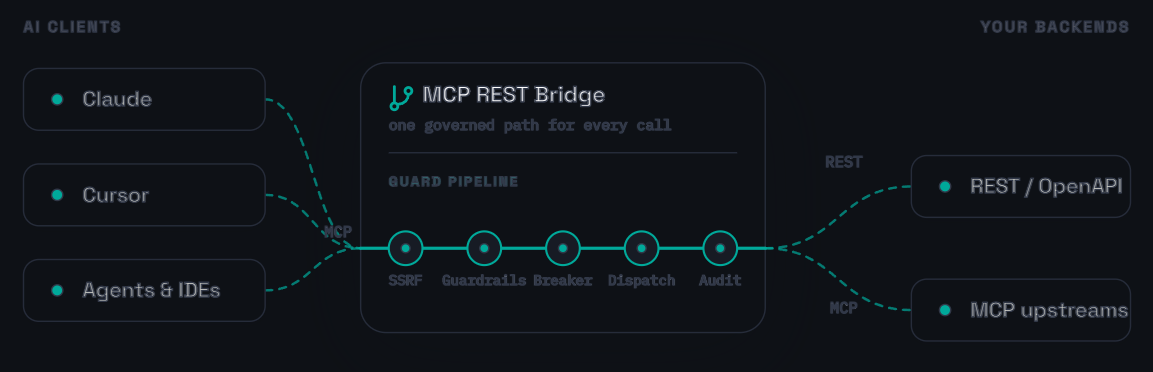
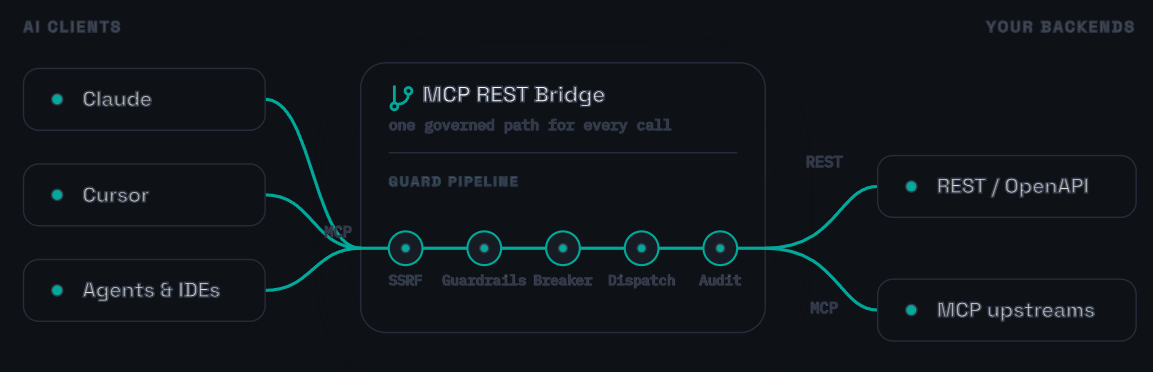
fix(docs): solid teal connectors, wider backend boxes, crisper dark text
- connectors now match the trunk's colour + weight (solid teal), so client ->
  bridge -> backend reads as one continuous line instead of dashed
- widen the "Your backends" chips so REST/OpenAPI + MCP upstreams get real padding
- promote the SVG to its own layer (translateZ) + font-smoothing/text-rendering
  hints so dark-mode labels use grayscale AA instead of ClearType subpixel AA,
  which fringed light-on-dark glyphs on Windows; chip labels bumped to 600 weight
- refresh the README diagram PNGs (light + dark)

diff --git a/docs/.vitepress/theme/components/HowItWorks.vue b/docs/.vitepress/theme/components/HowItWorks.vue
@@ -1,10 +1,9 @@
 <script setup lang="ts">
 // "How it works" — the request journey: tool calls come in over MCP, cross the
-// ink bridge along a single teal artery through the guard pipeline, and fan out
-// to REST + MCP backends. Connectors leave chips horizontal and meet the straight
-// trunk horizontal (tangent-continuous) so nothing kinks. Several teal "signals"
-// flow at once, from different clients to different backends, passing *behind* the
-// gate stations — the page's signature motif.
+// ink bridge along one continuous teal artery through the guard pipeline, and fan
+// out to REST + MCP backends. Connectors are the same teal + weight as the trunk,
+// so client -> bridge -> backend reads as a single line. Several signals flow at
+// once, from different clients to different backends, passing BEHIND the gates.
 </script>
 
 <template>
@@ -20,17 +19,17 @@
 
         <!-- eyebrows -->
         <text class="hiw-eyebrow" x="16" y="22">AI CLIENTS</text>
-        <text class="hiw-eyebrow" x="804" y="22" text-anchor="end">YOUR BACKENDS</text>
+        <text class="hiw-eyebrow" x="808" y="22" text-anchor="end">YOUR BACKENDS</text>
 
         <!-- 1 · bridge card (ink; drawn first so the trunk sits on top of it) -->
         <rect class="hiw-bridge" x="256" y="44" width="288" height="192" rx="18" />
 
-        <!-- 2 · connectors: leave chips horizontal, meet the trunk horizontal -->
+        <!-- 2 · connectors — same teal + weight as the trunk, so they read as one line -->
         <path class="hiw-wire" d="M188 70 C222 70 222 176 256 176" fill="none" />
         <path class="hiw-wire" d="M188 138 C222 138 222 176 256 176" fill="none" />
         <path class="hiw-wire" d="M188 206 C222 206 222 176 256 176" fill="none" />
-        <path class="hiw-wire" d="M544 176 C596 176 596 132 648 132" fill="none" />
-        <path class="hiw-wire" d="M544 176 C596 176 596 220 648 220" fill="none" />
+        <path class="hiw-wire" d="M544 176 C596 176 596 132 624 132" fill="none" />
+        <path class="hiw-wire" d="M544 176 C596 176 596 220 624 220" fill="none" />
 
         <!-- 3 · the teal artery / pipeline trunk (straight) -->
         <path class="hiw-spine" d="M256 176 H544" fill="none" />
@@ -94,20 +93,20 @@
           <text class="hiw-label" x="58" y="211">Agents &amp; IDEs</text>
         </g>
         <g class="hiw-chip-g">
-          <rect class="hiw-chip" x="648" y="110" width="156" height="44" rx="11" />
-          <circle class="hiw-node" cx="672" cy="132" r="4" />
-          <text class="hiw-label" x="690" y="137">REST / OpenAPI</text>
+          <rect class="hiw-chip" x="624" y="110" width="184" height="44" rx="11" />
+          <circle class="hiw-node" cx="648" cy="132" r="4" />
+          <text class="hiw-label" x="666" y="137">REST / OpenAPI</text>
         </g>
         <g class="hiw-chip-g">
-          <rect class="hiw-chip" x="648" y="198" width="156" height="44" rx="11" />
-          <circle class="hiw-node" cx="672" cy="220" r="4" />
-          <text class="hiw-label" x="690" y="225">MCP upstreams</text>
+          <rect class="hiw-chip" x="624" y="198" width="184" height="44" rx="11" />
+          <circle class="hiw-node" cx="648" cy="220" r="4" />
+          <text class="hiw-label" x="666" y="225">MCP upstreams</text>
         </g>
 
         <!-- 8 · segment labels -->
         <text class="hiw-seg" x="240" y="168" text-anchor="middle">MCP</text>
-        <text class="hiw-seg" x="600" y="118" text-anchor="middle">REST</text>
-        <text class="hiw-seg" x="600" y="222" text-anchor="middle">MCP</text>
+        <text class="hiw-seg" x="586" y="118" text-anchor="middle">REST</text>
+        <text class="hiw-seg" x="586" y="222" text-anchor="middle">MCP</text>
       </svg>
     </div>
     <figcaption class="hiw-cap">
@@ -130,6 +129,13 @@
   min-width: 600px;
   height: auto;
   display: block;
+  /* Promote to its own layer so text renders with grayscale AA instead of
+     subpixel/ClearType AA — the latter fringes light-on-dark glyphs and reads as
+     a blurry outline on Windows. Plus the usual crisp-text hints. */
+  transform: translateZ(0);
+  -webkit-font-smoothing: antialiased;
+  -moz-osx-font-smoothing: grayscale;
+  text-rendering: geometricPrecision;
 }
 
 .hiw-chip {
@@ -144,7 +150,7 @@
   fill: var(--vp-c-text-1);
   font-family: 'Space Grotesk', var(--vp-font-family-base);
   font-size: 15px;
-  font-weight: 500;
+  font-weight: 600;
 }
 .hiw-node {
   fill: #00a99a;
@@ -162,12 +168,11 @@
   font-size: 11px;
 }
 
+/* One continuous teal line: connectors match the trunk's colour + weight. */
 .hiw-wire {
   stroke: #00a99a;
-  stroke-width: 1.75;
+  stroke-width: 2.25;
   stroke-linecap: round;
-  stroke-dasharray: 5 5;
-  opacity: 0.7;
 }
 .hiw-spine {
   stroke: #00a99a;
@@ -226,7 +231,7 @@
 }
 
 /* ── Dark mode: lift the card off the ink page, and brighten every label so text
-      never reads as dim grey on the dark card/background. ── */
+      never reads as dim grey on the ink card/background. ── */
 :global(.dark) .hiw-bridge {
   fill: #171b24;
   stroke: #313848;
@@ -235,7 +240,7 @@
   fill: #0e1116;
 }
 :global(.dark) .hiw-label {
-  fill: #f0f2f5;
+  fill: #f2f4f6;
 }
 :global(.dark) .hiw-eyebrow {
   fill: #aeb6c3;
@@ -244,7 +249,7 @@
   fill: #cbd1da;
 }
 :global(.dark) .hiw-gate-label {
-  fill: #e2e7ec;
+  fill: #e4e8ed;
 }
 :global(.dark) .hiw-bridge-sub {
   fill: #b4bbc7;
@@ -262,13 +267,13 @@
   offset-distance: 0%;
 }
 .hiw-a {
-  offset-path: path('M188 70 C222 70 222 176 256 176 H544 C596 176 596 132 648 132');
+  offset-path: path('M188 70 C222 70 222 176 256 176 H544 C596 176 596 132 624 132');
 }
 .hiw-b {
-  offset-path: path('M188 206 C222 206 222 176 256 176 H544 C596 176 596 220 648 220');
+  offset-path: path('M188 206 C222 206 222 176 256 176 H544 C596 176 596 220 624 220');
 }
 .hiw-c {
-  offset-path: path('M188 138 C222 138 222 176 256 176 H544 C596 176 596 132 648 132');
+  offset-path: path('M188 138 C222 138 222 176 256 176 H544 C596 176 596 132 624 132');
 }
 @media (prefers-reduced-motion: no-preference) {
   .hiw-pulse {